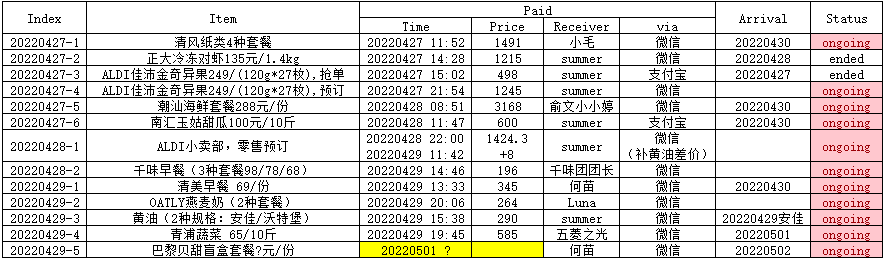
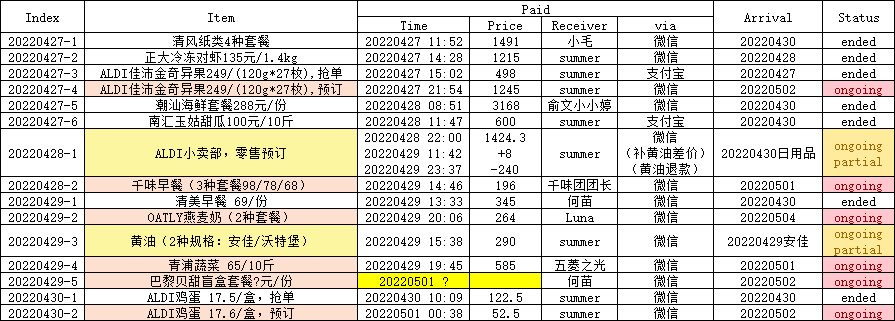
all groupon messages updated till 0430

diff --git a/index.html b/index.html
@@ -641,19 +641,19 @@ pre[data-line] .line-highlight[data-end]:after {
 <h3 class="mume-header" id="%E5%9B%A2%E8%B4%AD%E8%BF%9B%E8%A1%8C%E4%B8%AD-ongoing-groupon">&#x1F6D2; &#x56E2;&#x8D2D;&#x8FDB;&#x884C;&#x4E2D; ongoing groupon</h3>
 
 <div class="admonition bug">
-<p class="admonition-title">1&#xFE0F;&#x20E3; ALDI&#x5C0F;&#x5356;&#x90E8;&#xFF0C;&#x96F6;&#x552E;&#x9884;&#x8BA2;, &#x1F381; &#x9884;&#x8BA1;&#x5230;&#x8D27;: 20220430</p>
-</div>
-<p><img src="images/20220430_ALDI.png" alt></p>
-<div class="admonition bug">
-<p class="admonition-title">2&#xFE0F;&#x20E3; &#x6F6E;&#x6C55;&#x6D77;&#x9C9C;&#x5957;&#x9910;288&#x5143;/&#x4EFD;, &#x1F381; &#x9884;&#x8BA1;&#x5230;&#x8D27;: 20220430</p>
-<p><img src="images/20220427_seafood.png" alt></p>
+<p class="admonition-title">1&#xFE0F;&#x20E3; &#x5343;&#x5473;&#x65E9;&#x9910;&#xFF08;3&#x79CD;&#x5957;&#x9910;98/78/68&#xFF09;, &#x1F381; &#x9884;&#x8BA1;&#x5230;&#x8D27;: 20220501</p>
+<p><img src="images/20220428_breakfast_qianwei.png" alt></p>
 </div>
 <div class="admonition bug">
-<p class="admonition-title">4&#xFE0F;&#x20E3; &#x6E05;&#x7F8E;&#x65E9;&#x9910; 69/&#x4EFD;, &#x1F381; &#x9884;&#x8BA1;&#x5230;&#x8D27;: 20220430</p>
-<p><img src="images/20220429_breakfast_qingmei.png" alt></p>
+<p class="admonition-title">2&#xFE0F;&#x20E3; &#x9752;&#x6D66;&#x852C;&#x83DC; 65/10&#x65A4;, &#x1F381; &#x9884;&#x8BA1;&#x5230;&#x8D27;: 20220501</p>
+<p><img src="images/20220429_vegetable.png" alt></p>
+</div>
+<div class="admonition bug">
+<p class="admonition-title">3&#xFE0F;&#x20E3; &#x5DF4;&#x9ECE;&#x8D1D;&#x751C;&#x76F2;&#x76D2;&#x5957;&#x9910;?&#x5143;/&#x4EFD;, &#x1F381; &#x9884;&#x8BA1;&#x5230;&#x8D27;: 20220502</p>
+<p><img src="images/20220429_bread.png" alt></p>
 </div>
 <div class="admonition question">
-<p class="admonition-title">5&#xFE0F;&#x20E3; &#x9EC4;&#x6CB9;&#xFF08;2&#x79CD;&#x89C4;&#x683C;&#xFF1A;&#x5B89;&#x4F73;/&#x6C83;&#x7279;&#x5821;&#xFF09;, &#x1F381; &#x6C83;&#x7279;&#x5821;&#x9884;&#x8BA1;&#x5230;&#x8D27;&#x1F6AB;</p>
+<p class="admonition-title">4&#xFE0F;&#x20E3; &#x9EC4;&#x6CB9;&#xFF08;2&#x79CD;&#x89C4;&#x683C;&#xFF1A;&#x5B89;&#x4F73;/&#x6C83;&#x7279;&#x5821;&#xFF09;, &#x1F381; &#x6C83;&#x7279;&#x5821;&#x9884;&#x8BA1;&#x5230;&#x8D27;&#x1F6AB;</p>
 <br>
 <ul>
 <li>20220429 &#x5B89;&#x4F73; was delivered.</li>
@@ -661,29 +661,96 @@ pre[data-line] .line-highlight[data-end]:after {
 <p><img src="images/20220429_butter.png" alt></p>
 </div>
 <div class="admonition question">
-<p class="admonition-title">6&#xFE0F;&#x20E3;</p>
+<p class="admonition-title">5&#xFE0F;&#x20E3; ALDI&#x4F73;&#x6C9B;&#x91D1;&#x5947;&#x5F02;&#x679C;249/(120g*27&#x679A;) &#x3010;&#x9884;&#x8BA2;&#x3011;, &#x1F381; &#x9884;&#x8BA1;&#x5230;&#x8D27;&#x1F6AB;</p>
+<p><img src="images/20220427_kiwi.png" alt></p>
 </div>
 <div class="admonition question">
-<p class="admonition-title">7&#xFE0F;&#x20E3;</p>
-</div>
-<div class="admonition question">
-<p class="admonition-title">8&#xFE0F;&#x20E3;</p>
-</div>
-<h3 class="mume-header" id="%E5%8D%B3%E5%B0%86%E4%B8%8A%E7%BA%BF%E7%9A%84%E5%9B%A2">&#x1F496; &#x5373;&#x5C06;&#x4E0A;&#x7EBF;&#x7684;&#x56E2;</h3>
+<p class="admonition-title">6&#xFE0F;&#x20E3; ALDI&#x9E21;&#x86CB; 17.6/&#x76D2;&#x3010;&#x9884;&#x8BA2;&#x3011;, &#x1F381; &#x9884;&#x8BA1;&#x5230;&#x8D27;&#x1F6AB;</p>
+<table>
+<thead>
+<tr>
+<th colspan="3">20220430-2 ALDI&#x9E21;&#x86CB;17.5&#x5143;/&#x76D2;&#xFF0C;&#x9884;&#x8BA2;</th>
 
+
+</tr>
+</thead>
+<tbody>
+<tr>
+<td>401</td>
+<td>2</td>
+<td>35</td>
+</tr>
+<tr>
+<td>1002</td>
+<td>1</td>
+<td>17.5</td>
+</tr>
+<tr>
+<td>&#x603B;&#x8BA1;</td>
+<td>3</td>
+<td>52.5</td>
+</tr>
+</tbody>
+</table>
+</div>
+<div class="admonition question">
+<p class="admonition-title">7&#xFE0F;&#x20E3; ALDI&#x5C0F;&#x5356;&#x90E8;&#x3010;&#x96F6;&#x552E;&#x9884;&#x8BA2;&#x3011;, &#x1F381; &#x5269;&#x4F59;&#x9884;&#x8BA1;&#x5230;&#x8D27;&#x1F6AB;</p>
+<p><img src="images/20220428_aldi_retail.png" alt></p>
+</div>
+<div class="admonition question">
+<p class="admonition-title">8&#xFE0F;&#x20E3; OATLY&#x71D5;&#x9EA6;&#x5976;&#xFF08;2&#x79CD;&#x5957;&#x9910;&#xFF09;, &#x1F381; &#x5269;&#x4F59;&#x9884;&#x8BA1;&#x5230;&#x8D27;&#x1F6AB;</p>
+<table>
+<thead>
+<tr>
+<th colspan="3">20220429-2 OATLY&#x71D5;&#x9EA6;&#x5976;&#xFF08;2&#x79CD;&#x5957;&#x9910;&#xFF09;</th>
+
+
+</tr>
+</thead>
+<tbody>
+<tr>
+<td>36&#x53F7;&#x697C;&#x623F;&#x53F7;</td>
+<td>&#x5496;&#x5561;&#x5927;&#x5E08;</td>
+<td>&#x5DE7;&#x514B;&#x529B;</td>
+</tr>
+<tr>
+<td></td>
+<td>139</td>
+<td>125</td>
+</tr>
+<tr>
+<td>502</td>
+<td>1</td>
+<td>1</td>
+</tr>
+</tbody>
+</table>
+</div>
 <h3 class="mume-header" id="%E5%B7%B2%E7%BB%93%E6%9D%9F%E7%9A%84%E5%9B%A2">&#x1F4CA; &#x5DF2;&#x7ED3;&#x675F;&#x7684;&#x56E2;</h3>
 
-<div class="admonition bug">
-<p class="admonition-title">3&#xFE0F;&#x20E3; &#x5357;&#x6C47;&#x7389;&#x59D1;&#x751C;&#x74DC;100&#x5143;/10&#x65A4;, &#x1F381; &#x9884;&#x8BA1;&#x5230;&#x8D27;: 20220430</p>
+<div class="admonition note">
+<p class="admonition-title">&#x5357;&#x6C47;&#x7389;&#x59D1;&#x751C;&#x74DC;100&#x5143;/10&#x65A4;, &#x1F381; &#x5230;&#x8D27;: 20220430</p>
 <p><img src="images/20220427_melon.png" alt></p>
 </div>
-<div class="admonition bug">
-<p class="admonition-title">1&#xFE0F;&#x20E3; &#x6E05;&#x98CE;&#x7EB8;&#x7C7B;&#x5957;&#x9910;&#xFF08;4&#x79CD;&#x5957;&#x9910;&#xFF09;, &#x1F381; &#x9884;&#x8BA1;&#x5230;&#x8D27;: 20220430</p>
+<div class="admonition note">
+<p class="admonition-title">&#x6E05;&#x98CE;&#x7EB8;&#x7C7B;&#x5957;&#x9910;&#xFF08;4&#x79CD;&#x5957;&#x9910;&#xFF09;, &#x1F381; &#x5230;&#x8D27;: 20220430</p>
 <p>&#x5957;&#x9910;1&#xFF09;&#xFF1A;&#x6E05;&#x98CE;&#x62BD;&#x7EB8;24&#x5305;+&#x6E05;&#x98CE;&#x5377;&#x7EB8;27&#x5377;&#xFF0C;&#xA5;119&#x5143;<br>
 &#x5957;&#x9910;2&#xFF09;&#xFF1A;&#x6021;&#x4E3D;&#x536B;&#x751F;&#x5DFE;&#x65E5;&#x591C;&#x5957;&#x88C5;58&#x7247;+&#x5B89;&#x7761;&#x88E4;12&#x7247;&#xFF0C;&#xA5;100&#x5143;<br>
 &#x5957;&#x9910;3&#xFF09;&#xFF1A;&#x6E05;&#x98CE;&#x9152;&#x7CBE;&#x6740;&#x83CC;&#x6E7F;&#x5DFE;8&#x5305; (40&#x62BD;/&#x5305;&#xFF09;&#xFF0C;&#xA5;119&#x5143;<br>
 &#x5957;&#x9910;4&#xFF09;&#xFF1A;&#x6E05;&#x98CE;&#x53A8;&#x623F;&#x5377;&#x7EB8;12&#x5377;+&#x7EF5;&#x67D4;&#x6D17;&#x8138;&#x5DFE;3&#x5377;&#xFF0C;&#xA5;80&#x5143;</p>
 <p><img src="images/20220427_paper.png" alt></p>
+</div>
+<div class="admonition note">
+<p class="admonition-title">ALDI&#x5C0F;&#x5356;&#x90E8;&#xFF0C;&#x96F6;&#x552E;&#x9884;&#x8BA2;, &#x1F381; &#x90E8;&#x5206;&#x5230;&#x8D27;: 20220430</p>
+<p><img src="images/20220430_ALDI.png" alt></p>
+</div>
+<div class="admonition note">
+<p class="admonition-title">&#x6F6E;&#x6C55;&#x6D77;&#x9C9C;&#x5957;&#x9910;288&#x5143;/&#x4EFD;, &#x1F381; &#x5230;&#x8D27;: 20220430</p>
+<p><img src="images/20220427_seafood.png" alt></p>
+</div>
+<div class="admonition note">
+<p class="admonition-title"> &#x6E05;&#x7F8E;&#x65E9;&#x9910; 69/&#x4EFD;, &#x1F381; &#x5230;&#x8D27;: 20220430</p>
+<p><img src="images/20220429_breakfast_qingmei.png" alt></p>
 </div>
 <p>&#x4E70;&#x83DC;&#x6D41;&#x7A0B;</p>
 <div class="mermaid">flowchart LR
@@ -696,9 +763,6 @@ style C fill: lightgreen
 
 </div><p><a href="https://squidfunk.github.io/mkdocs-material/reference/admonitions/#supported-types">https://squidfunk.github.io/mkdocs-material/reference/admonitions/#supported-types</a></p>
 <p><a href="https://shd101wyy.github.io/markdown-preview-enhanced/#/">https://shd101wyy.github.io/markdown-preview-enhanced/#/</a></p>
-<h3 class="mume-header" id="4%E6%9C%8830%E5%8F%B7">4&#x6708;30&#x53F7;</h3>
-
-<p><a href="./index2.html">link to another link</a></p>
 
       </div>
       <div class="md-sidebar-toc"><ul>
@@ -730,9 +794,7 @@ style C fill: lightgreen
 <li><a href="#%E5%9B%A2%E8%B4%AD%E4%BF%A1%E6%81%AF%E5%85%AC%E5%91%8A">&#x1F4E2; &#x56E2;&#x8D2D;&#x4FE1;&#x606F;&#x516C;&#x544A;</a>
 <ul>
 <li><a href="#%E5%9B%A2%E8%B4%AD%E8%BF%9B%E8%A1%8C%E4%B8%AD-ongoing-groupon">&#x1F6D2; &#x56E2;&#x8D2D;&#x8FDB;&#x884C;&#x4E2D; ongoing groupon</a></li>
-<li><a href="#%E5%8D%B3%E5%B0%86%E4%B8%8A%E7%BA%BF%E7%9A%84%E5%9B%A2">&#x1F496; &#x5373;&#x5C06;&#x4E0A;&#x7EBF;&#x7684;&#x56E2;</a></li>
 <li><a href="#%E5%B7%B2%E7%BB%93%E6%9D%9F%E7%9A%84%E5%9B%A2">&#x1F4CA; &#x5DF2;&#x7ED3;&#x675F;&#x7684;&#x56E2;</a></li>
-<li><a href="#4%E6%9C%8830%E5%8F%B7">4&#x6708;30&#x53F7;</a></li>
 </ul>
 </li>
 </ul>

diff --git a/index.md b/index.md
@@ -158,51 +158,66 @@ title: 富嘉花园36号楼公告栏
 
 ### 🛒 团购进行中 ongoing groupon
 
-!!! bug 1⃣ ALDI小卖部，零售预订, 🎁 预计到货: 20220430
-![](images/20220430_ALDI.png)
+!!! bug 1⃣ 千味早餐（3种套餐98/78/68）, 🎁 预计到货: 20220501
+    ![](images/20220428_breakfast_qianwei.png)
 
-!!! bug 2⃣ 潮汕海鲜套餐288元/份, 🎁 预计到货: 20220430
-    ![](images/20220427_seafood.png)
+!!! bug 2⃣ 青浦蔬菜 65/10斤, 🎁 预计到货: 20220501
+    ![](images/20220429_vegetable.png)
 
+!!! bug 3⃣ 巴黎贝甜盲盒套餐?元/份, 🎁 预计到货: 20220502
+    ![](images/20220429_bread.png)
 
-!!! bug 4⃣ 清美早餐 69/份, 🎁 预计到货: 20220430
-    ![](images/20220429_breakfast_qingmei.png)
-
-!!! question 5⃣ 黄油（2种规格：安佳/沃特堡）, 🎁 沃特堡预计到货🚫
+!!! question 4⃣ 黄油（2种规格：安佳/沃特堡）, 🎁 沃特堡预计到货🚫
     <br>
 
     - 20220429 安佳 was delivered.
 
     ![](images/20220429_butter.png)
 
+!!! question 5⃣ ALDI佳沛金奇异果249/(120g*27枚) 【预订】, 🎁 预计到货🚫
+    ![](images/20220427_kiwi.png)
 
-!!! question 6⃣ 
+!!! question 6⃣ ALDI鸡蛋 17.6/盒【预订】, 🎁 预计到货🚫
+    | 20220430-2 ALDI鸡蛋17.5元/盒，预订 |   |      |
+    |------|---|------|
+    | 401  | 2 | 35   |
+    | 1002 | 1 | 17.5 |
+    | 总计  | 3 | 52.5 |
+
+!!! question 7⃣ ALDI小卖部【零售预订】, 🎁 剩余预计到货🚫
+    ![](images/20220428_aldi_retail.png)
+
+!!! question 8⃣ OATLY燕麦奶（2种套餐）, 🎁 剩余预计到货🚫
+    | 20220429-2 OATLY燕麦奶（2种套餐） |      |     |
+    |---------------------------|------|-----|
+    | 36号楼房号                    | 咖啡大师 | 巧克力 |
+    |                           | 139  | 125 |
+    | 502                       | 1    | 1   |
 
 
-!!! question 7⃣ 
-
-
-!!! question 8⃣ 
-
-
-
-
-
-### 💖 即将上线的团
 
 ### 📊 已结束的团
 
-!!! bug 3⃣ 南汇玉姑甜瓜100元/10斤, 🎁 预计到货: 20220430
+!!! note 南汇玉姑甜瓜100元/10斤, 🎁 到货: 20220430
     ![](images/20220427_melon.png)
 
 
-!!! bug 1⃣ 清风纸类套餐（4种套餐）, 🎁 预计到货: 20220430
+!!! note 清风纸类套餐（4种套餐）, 🎁 到货: 20220430
     套餐1）：清风抽纸24包+清风卷纸27卷，¥119元
     套餐2）：怡丽卫生巾日夜套装58片+安睡裤12片，¥100元
     套餐3）：清风酒精杀菌湿巾8包 (40抽/包），¥119元
     套餐4）：清风厨房卷纸12卷+绵柔洗脸巾3卷，¥80元
     
     ![](images/20220427_paper.png)
+
+!!! note ALDI小卖部，零售预订, 🎁 部分到货: 20220430
+    ![](images/20220430_ALDI.png)
+
+!!! note 潮汕海鲜套餐288元/份, 🎁 到货: 20220430
+    ![](images/20220427_seafood.png)
+
+!!! note  清美早餐 69/份, 🎁 到货: 20220430
+    ![](images/20220429_breakfast_qingmei.png)
 
 
 买菜流程
@@ -221,7 +236,5 @@ style C fill: lightgreen
 https://squidfunk.github.io/mkdocs-material/reference/admonitions/#supported-types
 
 https://shd101wyy.github.io/markdown-preview-enhanced/#/
-### 4月30号
 
-[link to another link](./index2.html)
 
